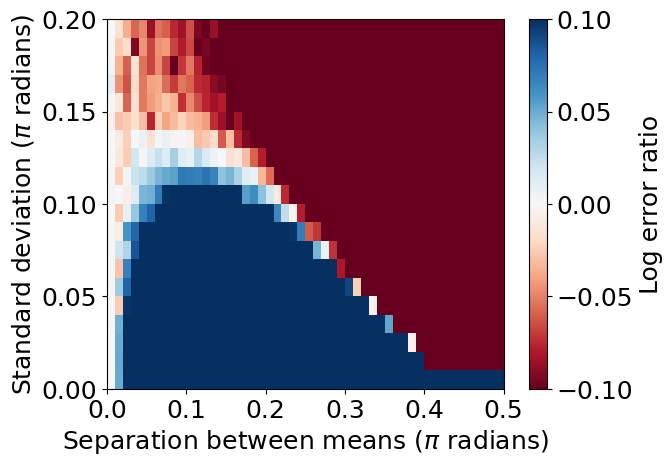
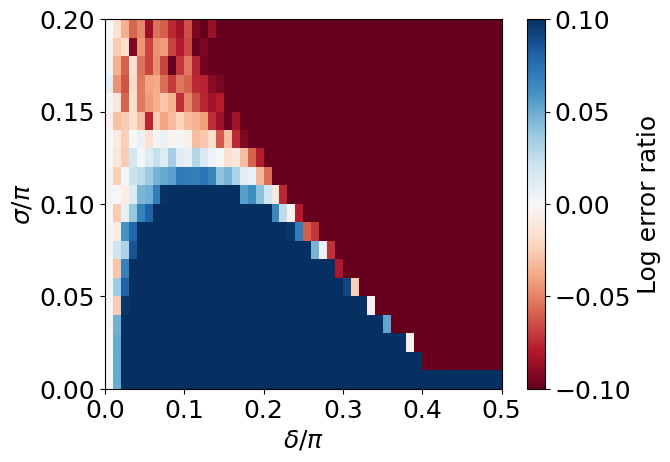
Change axis labels

diff --git a/plots.py b/plots.py
@@ -73,8 +73,8 @@ def rdg_plot(data, xmin = 0, ymin = 0, xmax = 0.5001, ymax = 0.5001, dx = 0.01, 
     y, x = np.mgrid[slice(ymin, ymax, dy), slice(xmin, xmax, dx)]
     plt.pcolormesh(x, y, data, cmap=colors, vmin=scalemin, vmax=scalemax)
     plt.colorbar(label=scalelabel)
-    plt.xlabel(r"Separation between means ($\pi$ radians)")
-    plt.ylabel(r"Standard deviation ($\pi$ radians)")
+    plt.xlabel(r"$\delta/\pi$")
+    plt.ylabel(r"$\sigma/\pi$")
     plt.title(title)
     if filename:
         plt.savefig(filename, bbox_inches="tight")
